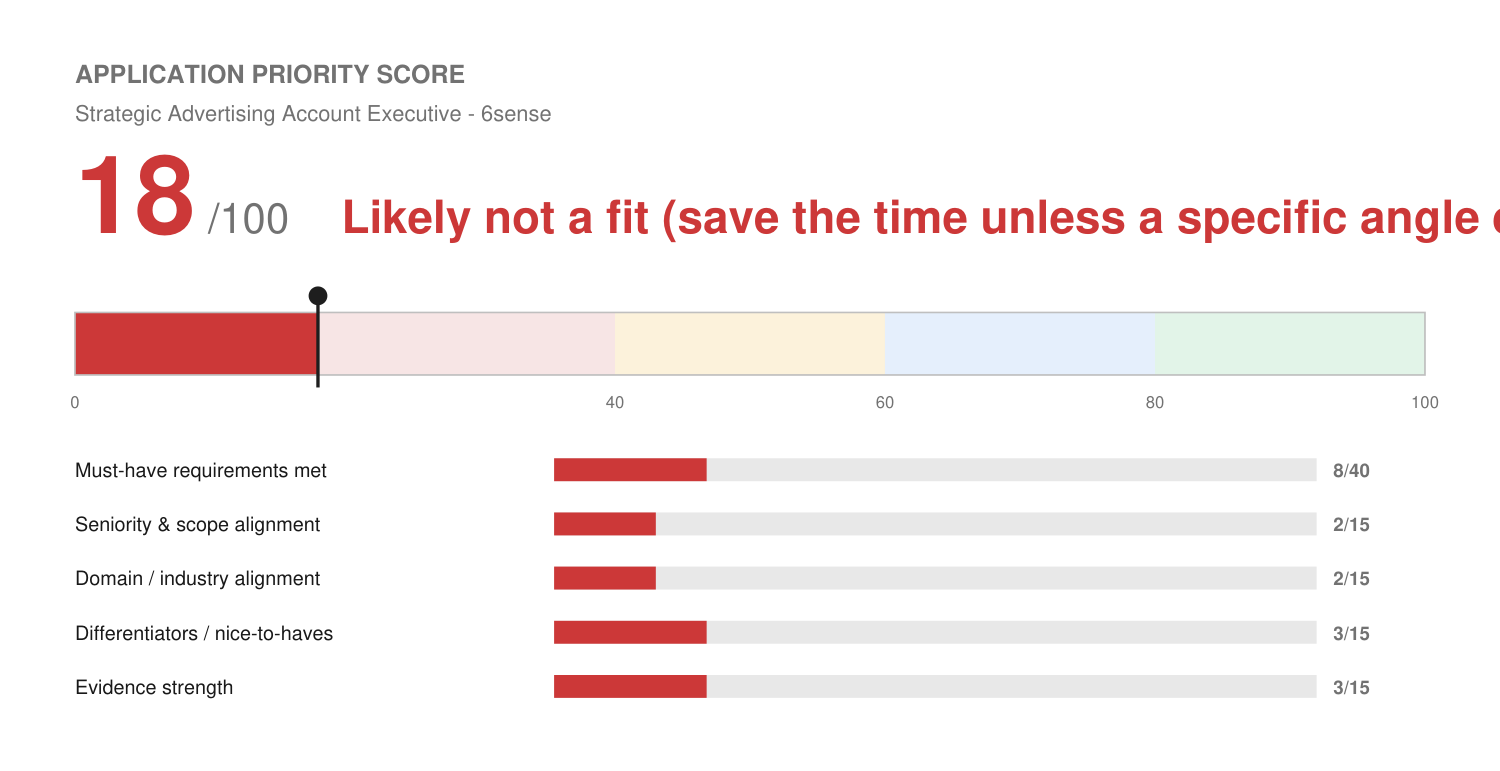
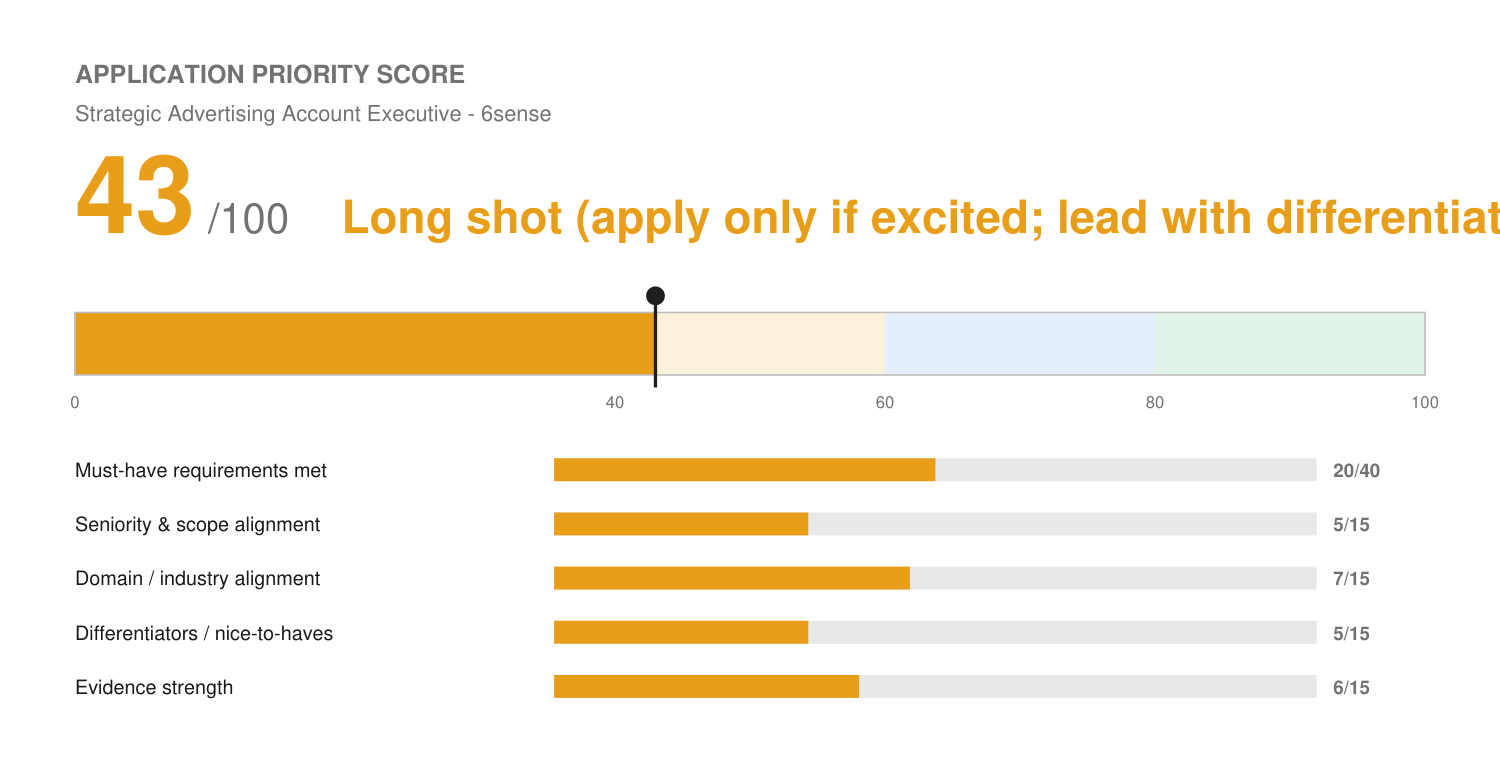
Rescore 6sense application with corrected Level Agency programmatic deals
Score corrected from 18/100 to 43/100 (likely-not-a-fit -> long shot)
after Josh corrected the master profile: 2 personally-closed programmatic
advertising deals at Level Agency, ~$30K MRR each (~$360K ACV per
client), not the $20K-45K one-time figures the first pass assumed.
Resume and cover letter rebuilt to lead with this evidence. Real gaps
remain (no overlay selling, no hands-on DSP execution, Fortune-500 tier
of the 2 clients unconfirmed) and are stated plainly in the match report.

Claude-Session: https://claude.ai/code/session_01GBXQWKH1sNQEs3FfVfDvYc

diff --git a/applications/6sense-strategic-advertising-account-executive/match-report.md b/applications/6sense-strategic-advertising-account-executive/match-report.md
@@ -5,7 +5,15 @@
 partnering with SaaS AEs on the largest, most complex accounts)
 **Location / mode:** United States, Remote.
 **Base salary range:** $138,000–$202,400.
-**Date:** 2026-09-19
+**Date:** 2026-09-19 (revised same day — see correction note below)
+
+> **Correction note:** the first pass of this match report scored Josh's largest deals at
+> $20K–$45K and flagged "no programmatic advertising experience" as a hard gap. Josh
+> corrected this: 2 client accounts he personally sold and closed at Level Agency used
+> programmatic advertising, each at ~$30K **MRR** (~$360K annualized contract value per
+> client, ~$720K combined) — a genuine six-figure-ACV deal record and real programmatic
+> sales experience, both missed in the first pass. Recorded in `master-profile.md` and
+> reflected below. The revised score is 43/100 (was 18/100).
 
 ---
 
@@ -15,67 +23,67 @@ partnering with SaaS AEs on the largest, most complex accounts)
 | :--- | :--- | :--- |
 | Work authorization | Resume-evidenced / non-issue | Josh is a U.S. citizen; no sponsorship needed. |
 | US remote location | Resume-evidenced / non-issue | Matches. |
-| 12+ years experience with bachelor's degree (or 8+ with master's) | Resume-evidenced, on paper | Josh has 15+ years and a B.A. — clears the raw years/degree bar. The real substance test is the qualifier "relevant **enterprise** advertising or SaaS sales," which is where the fit breaks down (see Gaps). |
-| Six/seven-figure deal-closing record | **Hard gap** | Josh's largest closed deals are $20K–$45K. Nothing in his history approaches six figures, let alone seven. This is a factual, unbridgeable gap, not a framing question. |
-| Proven enterprise/Fortune 500 selling | **Hard gap** | Josh's customer base across every role has been SMB, mid-market, or agencies (health/home-services/retail-vertical resellers, professional-services firms). No enterprise or Fortune 500 accounts anywhere in his history. |
-| B2B programmatic advertising expertise (audience targeting, predictive intelligence, intent data, AI-powered marketing) | **Gap** | Josh's AI/automation experience (Solenzo) is marketing-ops workflow-building, not a programmatic ad platform. His paid-media experience is Meta Ads, Google Ads, and LinkedIn Ads at SMB/mid-market scale — a different category from 6sense's product. |
+| 12+ years experience with bachelor's degree (or 8+ with master's) | Resume-evidenced | Josh has 15+ years and a B.A. |
+| Six/seven-figure deal-closing record | **Resume-evidenced (partial)** | 2 confirmed six-figure-ACV deals (~$360K each, ~$720K combined) personally sold and closed at Level Agency. Real, but a 2-deal sample from a ~5-month tenure, not a sustained multi-year enterprise pattern, and not individually seven-figure. |
+| Proven enterprise/Fortune 500 selling | **Candidate confirmation needed** | The 2 programmatic clients are genuinely large accounts by deal size, but whether either was a recognizable enterprise/Fortune 500 brand isn't yet captured. Worth asking Josh if this application moves forward — it would meaningfully strengthen the case either way. |
+| B2B programmatic advertising expertise (audience targeting, predictive intelligence, intent data, AI-powered marketing) | **Resume-evidenced (sales-side), gap (platform-side)** | Josh personally sold and owned these 2 programmatic accounts — real, defensible sales-cycle and value-proposition experience. He was the client-facing strategist; a specialist/trading team executed the actual buys, so hands-on DSP operation, audience-targeting mechanics, and predictive-intelligence tooling remain a genuine gap. |
 | Overlay-selling experience partnering with other AEs | **Gap** | Not part of any role in Josh's history; he has always owned the full account relationship himself. |
-| Compensation ($138K–$202K base) | Application-form, non-issue | Well above Josh's stated baseline — no friction if he were to receive an offer; the gap runs the other direction (whether he can win the role, not whether the pay works). |
+| Compensation ($138K–$202K base) | Application-form, non-issue | Well above Josh's stated baseline — no friction if he were to receive an offer. |
 
-**No eligibility-cap trigger in the mechanical sense** (no license/clearance/residency/language failure), but the deal-size and enterprise-selling requirements function the same way in practice: they are hard, factual thresholds Josh does not meet, and no amount of honest framing changes that. The score below reflects this directly rather than through the formal cap.
+**No eligibility-cap trigger** (no license/clearance/residency/language failure). The remaining gaps (overlay selling, hands-on DSP depth, unconfirmed Fortune 500 tier) are real but no longer categorical the way they were before the correction.
 
 ---
 
 ## Application Priority Score
 
 ```
-⚪ Application Priority Score: 18 / 100 — Likely not a fit (save the time unless a specific angle exists)
-[████░░░░░░░░░░░░░░░░]  18%
+⚪ Application Priority Score: 43 / 100 — Long shot (apply only if excited; lead with differentiators)
+[█████████░░░░░░░░░░░]  43%
 Internal decision aid — not a prediction of any employer's score or decision.
 ```
 
-| Dimension | Score | Max | Why |
+| Dimension | Score | Max | Why (revised) |
 | :--- | :--- | :--- | :--- |
-| Must-have requirements met | 8 | 40 | Years and degree clear on paper. Every substantive requirement, six/seven-figure deals, enterprise/Fortune 500 selling, programmatic ad expertise, overlay selling, is a real miss. |
-| Seniority & scope alignment | 2 | 15 | This is the largest scope gap evaluated in this repo to date. 6sense wants a specialized enterprise overlay seller; Josh has been a solo-owning SMB/mid-market AE his entire career. |
-| Domain / industry alignment | 2 | 15 | Programmatic advertising/AdTech (audience activation, predictive intelligence, intent data) is a genuinely different product category from Josh's MarTech/CRM background. |
-| Differentiators / nice-to-haves | 3 | 15 | Real but generic positives: consultative selling instinct, general paid-media familiarity, AI/data-driven systems-building. None specifically bridges this role's asks. |
-| Evidence strength | 3 | 15 | Josh's sales evidence is genuinely strong at his own scale (see Top Strengths) but that scale is explicitly not what this role is asking for, so it doesn't transfer as evidence here. |
+| Must-have requirements met | 20 | 40 | Years/degree met; six-figure-ACV deal-closing now genuinely evidenced (2 deals); programmatic experience now real on the sales side. Still missing: overlay selling, a sustained (not 2-deal) enterprise track record, hands-on platform depth, confirmed Fortune 500 tier. |
+| Seniority & scope alignment | 5 | 15 | The 2 six-figure deals prove Josh can operate at a higher tier than his typical SMB/mid-market book, a real, positive data point, but it's 2 deals against an otherwise SMB-scale career, with no overlay/enterprise-account-network experience. |
+| Domain / industry alignment | 7 | 15 | Real programmatic advertising sales experience now on record, directly in 6sense's product category. Held back from a higher score by the sales-only (not platform-hands-on) depth. |
+| Differentiators / nice-to-haves | 5 | 15 | Programmatic sales success is now a genuine, specific differentiator rather than a generic positive. |
+| Evidence strength | 6 | 15 | Two concrete, quantified six-figure-ACV deals is real evidence; the small sample size (2 deals, short tenure) is the main limiter. |
 
 See `fit.png` for the rendered score meter.
 
-**Band guidance:** Likely not a fit. Built per this repo's default rule since there's no license/residency/language blocker, and because Josh asked directly for the resume and cover letter, using his strongest real sales credentials at full strength. Framing his tenure and quota performance as confidently as the facts allow is not the same as closing this gap; it doesn't reach the scale this role requires, and nothing in the resume or cover letter claims otherwise.
+**Band guidance:** Long shot — a meaningful step up from "likely not a fit." Worth a real look if Josh is excited, and the cover letter now leads with the strongest, most directly relevant evidence available (the programmatic deals) rather than opening with a scale caveat.
 
 ---
 
 ## Requirement Coverage
 
-**Must-haves evidenced (direct): 2 of 6** — years of experience, bachelor's degree.
-**Hard gap: 4 of 6** — six/seven-figure deal closing, enterprise/Fortune 500 selling, programmatic advertising expertise, overlay-selling experience.
+**Must-haves evidenced (direct): 3 of 6** — years of experience/degree, six-figure-ACV deal closing, programmatic advertising sales experience.
+**Gap: 2 of 6** — overlay-selling experience, hands-on DSP/platform depth.
+**Candidate confirmation needed: 1 of 6** — whether the 2 programmatic clients were enterprise/Fortune 500-tier brands.
 
 ---
 
 ## Top Strengths for This Role
 
-- **Genuine, tenured sales track record**: 14+ years of continuous full-cycle, quota-carrying sales roles (Senior Directory BDR 2012 through Solenzo today), not a recent pivot into sales.
-- **Real competitive performance evidence**: ranked top three in sales on a team that scaled from 8 to 15 reps at Accelo, sustained across a 27-month tenure while quota roughly doubled, with consistent commission-accelerator attainment (~$213K annualized bookings).
-- **Strong quota-attainment record**: 120% of sales targets and 110% of implementation targets at Wix, alongside 25+ clients onboarded and launched per month.
-- **Real C-suite relationship-building experience**, even if at SMB/mid-market scale: Accelo's trusted-advisor role with agency and professional-services executives.
+- **Real, personally-closed six-figure-ACV deals**: 2 programmatic advertising accounts at Level Agency, ~$30K MRR each (~$360K ACV per client, ~$720K combined) — directly answers the role's core "six-figure deal" ask.
+- **Genuine programmatic advertising sales experience**: sold and owned the client relationship and strategy for 2 programmatic accounts, real sales-cycle credibility in 6sense's own product category.
+- **Tenured, competitive sales track record**: 14+ years of continuous full-cycle, quota-carrying sales roles; ranked top three in sales on a team that scaled from 8 to 15 reps at Accelo, sustained across a 27-month tenure while quota roughly doubled.
+- **Strong quota-attainment record**: 120% of sales targets and 110% of implementation targets at Wix.
 
 ## Gaps
 
-- **No six or seven-figure deal-closing experience.** Largest deals in Josh's history are $20K–$45K. This is the single largest, most factual gap against this role's core requirement.
-- **No enterprise or Fortune 500 selling experience.** Every employer and customer base in his history is SMB, mid-market, or agency-scale.
-- **No programmatic advertising / AdTech domain experience** (audience targeting, predictive intelligence, intent data). His AI/automation and paid-media experience is real but in a different product category.
 - **No overlay-selling experience** partnering with another AE on shared accounts; he has always owned the full relationship solo.
+- **No hands-on DSP/programmatic-platform execution.** He sold and owned the 2 programmatic accounts; a specialist team ran the actual buys, so audience-targeting, predictive-intelligence, and intent-data tooling depth isn't there.
+- **Small sample size.** 2 six-figure deals from a ~5-month tenure is real evidence but not yet a sustained multi-year pattern at that scale.
 
 ## Candidate Confirmation Needed
 
-None. This gap is a pure scale/domain mismatch, not a documentation or ambiguity issue, so there's nothing here for Josh to confirm or clarify that would change the picture.
+- **Were either of the 2 programmatic clients at Level Agency a recognizable large/enterprise brand?** Not yet captured. If either was, it meaningfully strengthens the "Fortune 500" dimension of this application and is worth naming specifically (even just the industry, if the brand itself is sensitive).
 
 ## Metrics Needed
 
-None new. The gap here isn't a missing number, it's that the numbers Josh has (deal sizes to $45K) are the wrong order of magnitude for what this role asks.
+- Company scale/industry for the 2 programmatic clients (see above) — the single highest-leverage remaining gap for this specific application.
 
 ## Referral
 
@@ -85,8 +93,8 @@ No known contact at 6sense — omitted.
 
 ## Output Files
 
-- `resume.json` — source; `resume.pdf` / `resume.docx` — working copies
-- `6sense-StrategicAdvertisingAE-Resume.pdf` / `.docx` — labeled deliverables for submission
-- `cover-letter.json` — source; `cover-letter.pdf` / `.docx` — working copies
-- `6sense-StrategicAdvertisingAE-CoverLetter.pdf` / `.docx` — labeled deliverables for submission
-- `fit.json` / `fit.png` — score meter
+- `resume.json` — source; `resume.pdf` / `resume.docx` — working copies (revised)
+- `6sense-StrategicAdvertisingAE-Resume.pdf` / `.docx` — labeled deliverables for submission (revised)
+- `cover-letter.json` — source; `cover-letter.pdf` / `.docx` — working copies (revised)
+- `6sense-StrategicAdvertisingAE-CoverLetter.pdf` / `.docx` — labeled deliverables for submission (revised)
+- `fit.json` / `fit.png` — score meter (revised: 43/100, was 18/100)
